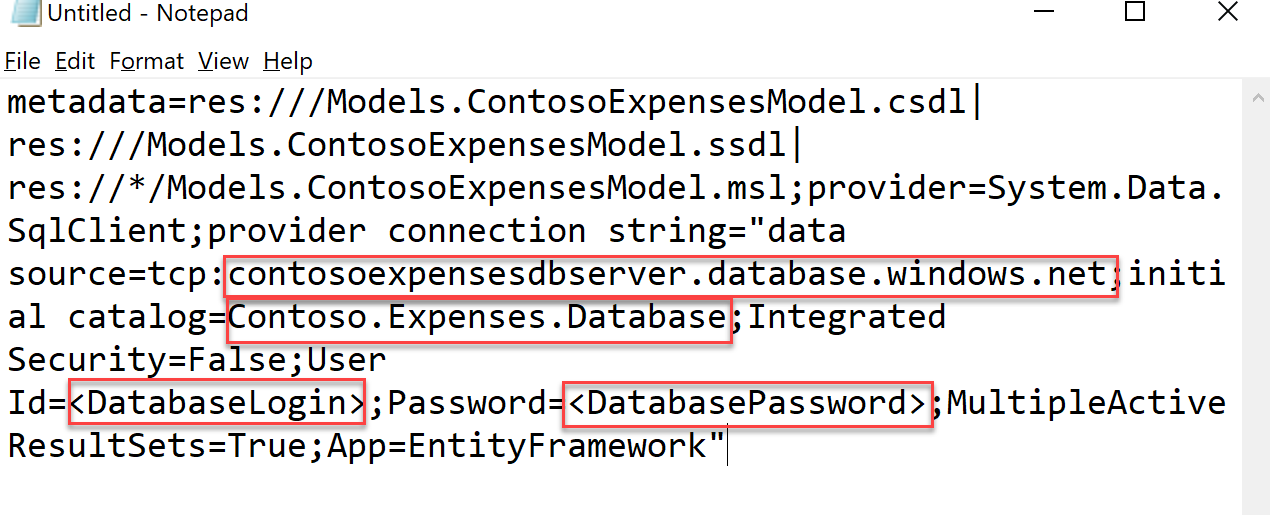
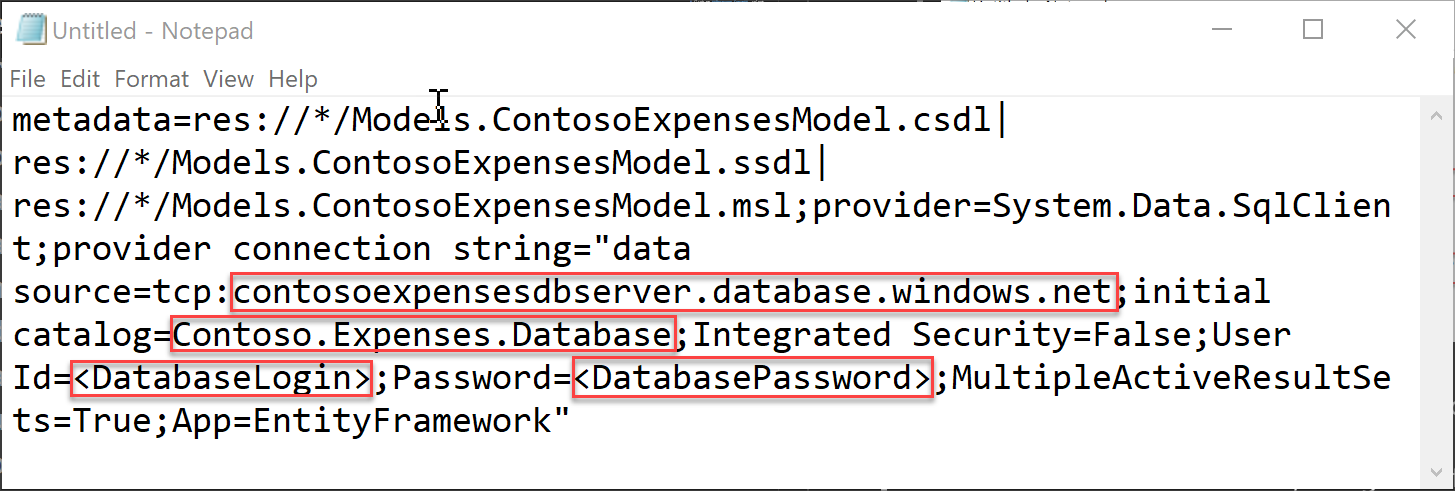
Updates

diff --git a/Scenarios/PaaS/POC-Scenario-InternalBizAppMod.md b/Scenarios/PaaS/POC-Scenario-InternalBizAppMod.md
@@ -205,7 +205,6 @@ Self-guided
   
    ```
     metadata=res://*/Models.ContosoExpensesModel.csdl|res://*/Models.ContosoExpensesModel.ssdl|res://*/Models.ContosoExpensesModel.msl;provider=System.Data.SqlClient;provider connection string="data source=tcp:**contosoexpensesdbserver.database.windows.net**;initial catalog=**Contoso.Expenses.Database**;Integrated Security=False;User Id=<**DatabaseLogin**>;Password=<**DatabasePassword**>;MultipleActiveResultSets=True;App=EntityFramework"
-    
    ```
 
    ![Screenshot](/Images/AppMod-Pic-0154.png)
@@ -252,7 +251,7 @@ Self-guided
 ## Update the App Service Settings
 * From the Azure Portal, click on **Resource Groups**.
 * Click on **ContosoExpenses-RG-WestUS2**.
-* Click on the **App Service name** you deployed, e.g. **ContosoExpensesWeb20170710012420**.
+* Click on the **App Service** you deployed, e.g. **ContosoExpensesAPI20170711011807**.
 * Click on **Overview** and copy the URL to the clipboard.
 
   ![Screenshot](/Images/AppMod-Pic-0170.png)
@@ -260,7 +259,7 @@ Self-guided
 * From the **Settings area**, click on **Application Settings**.
 * Under **App settings**, add a new entry in the first & second textboxs.
   * Type **EmployeeName** and <**your name**>.
-  * Type **EmployeeApiUri** and paste in the URL of the website, e.g. **http://contosoexpensesweb20170710012420.azurewebsites.net**
+  * Type **EmployeeApiUri** and paste in the URL of the website, e.g. **http://contosoexpensesapi20170711011807.azurewebsites.net**
 * Click **Save**.
 
   ![Screenshot](/Images/AppMod-Pic-0172.png)
@@ -496,19 +495,29 @@ public static async void Run(string expenseItem, TraceWriter log, IAsyncCollecto
   * This will load the Swagger page that will allow you to explore and test your APIs.
 * Under **Employee**, click on **GET**.
 * Under **Parameters,** type in **Randy**, the click **Try it Out!**
-  * The response body will return **ManagerName** with a response code of 200.
 
   ![Screenshot](/Images/AppMod-Pic-0240.png)
+
+  * The response body will return **ManagerName** with a response code of 200.
+
+  ![Screenshot](/Images/AppMod-Pic-0241.png)
 
 ## Test out the Website
 * From Visual Studio, right-click on the Web Project, **Contoso.Expenses.Web**.
 * Select **Publish** from context menu, to pick a new publish target.
 * Select the previously used Profile from the Publish dialog.
-* From the Azure Portal, click on **Resource Groups**, **ContosoExpenses-RG-WestUS2**.
-* Click on the App Service name you deployed, e.g. **ContosoExpensesWeb20170710012420**.
+* From the Azure Portal, click on **Resource Groups**.
+* Click on **ContosoExpenses-RG-WestUS2**.
+* Click on the **App Service** you deployed, e.g. **ContosoExpensesWeb20170710012420**.
 * Click on URL to launch the website. e.g. **http://contosoexpensesweb20170710012420.azurewebsites.net/**.
-* From the website, click on **Expenses** | **Create New**.
+* From the website, click on **Expenses**.
+* Click on **Create New**.
+
+  ![Screenshot](/Images/AppMod-Pic-0244.png)
+
 * Type in values for a test record and click **Create**.
+  ![Screenshot](/Images/AppMod-Pic-0245.png)
+  ![Screenshot](/Images/AppMod-Pic-0246.png)
 
 ## View the Queue from Visual Studio
 * From Visual Studio, select the menu item **View** | **Cloud Explorer**.
